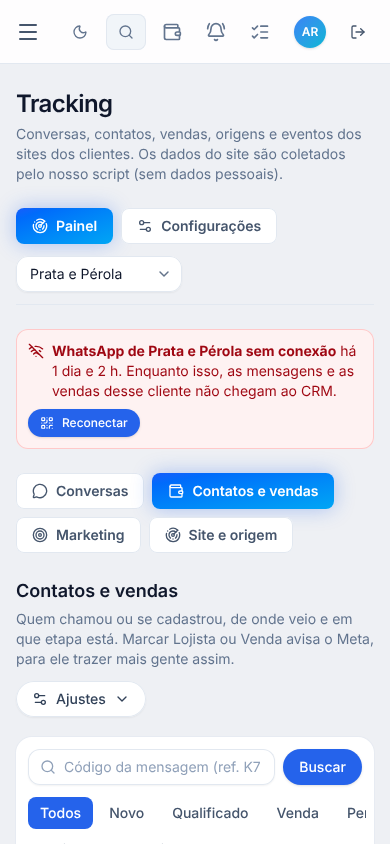
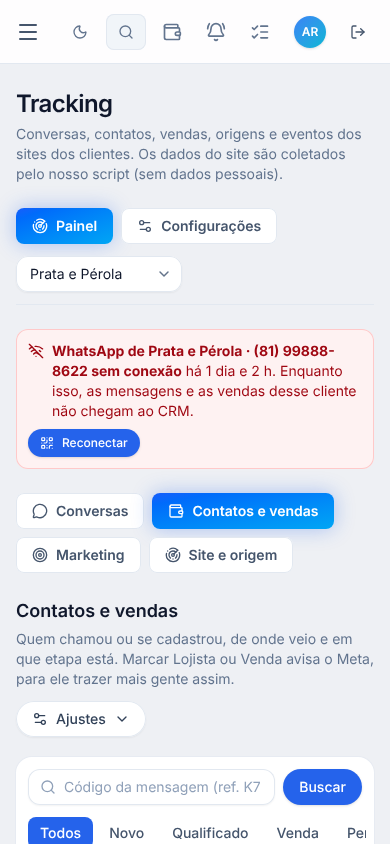
Tracking: vários números de WhatsApp por cliente (botão +, filtro Número nas conversas, aviso diz qual número caiu)
Claude-Session: https://claude.ai/code/session_01A5ivfSd6VbkwRJFYwrhVNk

Changed region(s): [[0.0308, 0.4005, 0.9538, 0.8626], [0.0615, 0.8934, 0.6769, 1.0], [0.7077, 0.8626, 0.9538, 1.0]]

diff --git a/apps/web/src/features/tracking/ClientesSiteWhatsApp.tsx b/apps/web/src/features/tracking/ClientesSiteWhatsApp.tsx
@@ -11,7 +11,7 @@ import { useAuth } from "@/features/auth/AuthProvider.tsx";
 import { can } from "@backstage/shared";
 import { errorMessage } from "@/lib/errors.ts";
 import { formatDataCurta } from "@/lib/format.ts";
-import { type Destination, type TrackingContainer, useExcludedWhatsAppContainers, useWaSemSiteContainer, type WhatsAppConnection } from "./api.ts";
+import { type Destination, type TrackingContainer, useExcludedWhatsAppContainers, useWaNovoNumeroContainer, useWaSemSiteContainer, type WhatsAppConnection } from "./api.ts";
 import { ExcluirWhatsApp } from "./ExcluirWhatsApp.tsx";
 import { usoRecente, waConnectionStatus } from "./logic.ts";
 import { WA_QR_LABEL, WaQrModal } from "./WaQrSection.tsx";
@@ -85,10 +85,11 @@ export function ClienteSiteWhatsApp({ clients, containers, connectionOf, destina
   renderDetail?: (clientId: string) => ReactNode;
 }) {
   const semSite = useWaSemSiteContainer();
+  const novoNumeroWa = useWaNovoNumeroContainer();
   const excluidos = new Set(useExcludedWhatsAppContainers(true).data ?? []);
   const podeGerenciar = can(useAuth().profile?.role, "tracking.manage");
   const queryClient = useQueryClient();
-  const [qrDe, setQrDe] = useState<{ clienteId: string; nome: string } | null>(null);
+  const [qrDe, setQrDe] = useState<{ conexaoId: string; nome: string } | null>(null);
   const [busy, setBusy] = useState<string | null>(null);
   const [erro, setErro] = useState<string | null>(null);
   const [busca, setBusca] = useState("");
@@ -108,7 +109,12 @@ export function ClienteSiteWhatsApp({ clients, containers, connectionOf, destina
       });
       return { container, connection: container ? connectionOf(container.id) : undefined };
     };
-    return { mine, sites: mine.filter((c) => c.kind !== "whatsapp" && !c.excluded_at), servidor: porModo(true), oficial: porModo(false) };
+    // 25/11/2026: um cliente pode ter vários números pelo servidor próprio (um recipiente técnico por número).
+    const servidores = mine
+      .map((c) => ({ container: c, connection: connectionOf(c.id) }))
+      .filter((x): x is { container: TrackingContainer; connection: WhatsAppConnection } => x.connection?.mode === "nao_oficial")
+      .sort((a, b) => a.container.created_at.localeCompare(b.container.created_at));
+    return { mine, sites: mine.filter((c) => c.kind !== "whatsapp" && !c.excluded_at), servidor: servidores[0] ?? porModo(true), servidores, oficial: porModo(false) };
   }
 
   /**
@@ -139,6 +145,18 @@ export function ClienteSiteWhatsApp({ clients, containers, connectionOf, destina
     } catch (e) { setErro(errorMessage(e)); } finally { setBusy(null); }
   }
 
+  /** 25/11/2026: outro número de WhatsApp do mesmo cliente: cria um recipiente técnico novo e abre o cadastro do número. */
+  async function novoNumero(clientId: string) {
+    setErro(null);
+    setBusy(clientId);
+    try {
+      const id = await novoNumeroWa.mutateAsync(clientId);
+      await queryClient.refetchQueries({ queryKey: ["tracking", "containers"] });
+      const c = (queryClient.getQueryData<TrackingContainer[]>(["tracking", "containers"]) ?? []).find((x) => x.id === id);
+      if (c) onWhatsApp(c);
+    } catch (e) { setErro(errorMessage(e)); } finally { setBusy(null); }
+  }
+
   /** Um pixel por cliente: o que estiver ligado em qualquer recipiente dele (site ou WhatsApp). */
   function pixelDe(clientId: string) {
     const mine = containers.filter((c) => c.client_id === clientId && !c.excluded_at);
@@ -166,7 +184,8 @@ export function ClienteSiteWhatsApp({ clients, containers, connectionOf, destina
   // Situação de cada cliente, calculada uma vez (a busca e os filtros usam isto).
   const linhas = useMemo(() => clients.map((cl) => {
     const dados = conexoesDe(cl.id);
-    return { cl, ...dados, est: estadoDe(dados.servidor.connection), estOficial: estadoDe(dados.oficial.connection), pxErro: pixelComErro(pixelDe(cl.id).destination) };
+    const pior = dados.servidores.find((x) => estadoDe(x.connection).estado !== "conectado") ?? dados.servidores[0];
+    return { cl, ...dados, est: estadoDe(pior?.connection ?? dados.servidor.connection), estOficial: estadoDe(dados.oficial.connection), pxErro: pixelComErro(pixelDe(cl.id).destination) };
     // eslint-disable-next-line react-hooks/exhaustive-deps
   }), [clients, containers, connectionOf]);
 
@@ -210,11 +229,8 @@ export function ClienteSiteWhatsApp({ clients, containers, connectionOf, destina
           <span>Cliente</span><span>Site</span><span className="@[64rem]:pl-4">WhatsApp (servidor próprio)</span><span className="@[64rem]:pl-4">API oficial</span><span className="@[64rem]:pl-4">Pixel do Meta</span>
         </div>
         <ul className="divide-y divide-slate-100">
-          {visiveis.map(({ cl, sites, servidor, oficial, est, estOficial }) => {
-            const cn = servidor.connection;
-            const uso = usoRecente(cn?.last_webhook_at ?? null, Date.now());
+          {visiveis.map(({ cl, sites, servidores, oficial, estOficial }) => {
             const usoOficial = usoRecente(oficial.connection?.last_webhook_at ?? null, Date.now());
-            const guardando = Boolean(cn && cn.mode === "nao_oficial" && cn.store_messages && cn.store_ack_at);
             const aberto = Boolean(renderDetail && sites.length > 0 && (abertos.has(cl.id) !== (filtradas.length === 1)));
             return (
               <li key={cl.id} className="grid gap-x-4 gap-y-3 px-3 py-3 sm:px-4 @[64rem]:grid-cols-[minmax(6rem,0.7fr)_minmax(6rem,0.7fr)_minmax(26rem,2.6fr)_minmax(8.5rem,0.7fr)_minmax(10rem,0.8fr)] @[64rem]:items-center @[64rem]:py-2.5" data-testid="cli-site-whatsapp-row">
@@ -245,29 +261,45 @@ export function ClienteSiteWhatsApp({ clients, containers, connectionOf, destina
                   <IconButton size="sm" label={`${sites.length ? "Adicionar outro site" : "Adicionar site"} de ${cl.name}`} icon={<Plus />} onClick={() => onAddSite(cl.id)} />
                 </div>
 
-                {/* WhatsApp do servidor próprio: situação + ações, numa linha */}
-                <div className="flex min-w-0 flex-wrap items-center gap-x-2 gap-y-2 @[64rem]:flex-nowrap @[64rem]:border-l @[64rem]:border-slate-100 @[64rem]:pl-4" data-testid="cli-whatsapp-coluna">
-                  <span className="w-20 shrink-0 text-[11px] font-semibold uppercase tracking-wide text-slate-400 @[64rem]:hidden">WhatsApp</span>
-                  {est.estado === "nenhum" ? <span className="whitespace-nowrap text-xs text-slate-400">Não ligado</span> : <Badge tone={est.tone} title={est.detalhe}><span className="whitespace-nowrap">{est.label}</span></Badge>}
-                  {cn?.display_phone && <span className="whitespace-nowrap text-xs tabular-nums text-slate-500">{formatTelefone(cn.display_phone)}</span>}
-                  {guardando && <span title="Guardando as conversas deste WhatsApp" className="text-slate-400"><MessageSquareText className="size-4" aria-label="Guardando as conversas" role="img" /></span>}
-                  {guardando && cn?.ai_suggest && <span title="IA sugerindo vendas" className="text-brand-600"><Sparkles className="size-4" aria-label="IA sugerindo vendas" role="img" /></span>}
-                  {uso.level === "atencao" && <Badge tone="warning" data-testid="wa-sem-uso">Sem uso desde {formatDataCurta(cn!.last_webhook_at!)}</Badge>}
-                  <span className="flex items-center gap-1" data-testid="wa-detalhe-servidor">
-                    {cn?.mode === "nao_oficial" && podeGerenciar && (
-                      <Button className="px-3 py-1 text-xs" variant={est.estado === "conectado" ? "secondary" : "primary"} onClick={() => setQrDe({ clienteId: cl.id, nome: cl.name })} aria-label={`Conectar o WhatsApp de ${cl.name}`}>
-                        <QrCode className="size-3.5" aria-hidden /> {est.estado === "conectado" ? "Reconectar" : "Conectar"}
-                      </Button>
-                    )}
-                    {cn ? (
-                      <IconButton size="sm" label={`Configurar WhatsApp de ${cl.name}`} icon={<Settings2 />} onClick={() => void ligarWhatsApp(cl.id, "servidor")} />
-                    ) : (
+                {/* WhatsApp do servidor próprio: um número por linha; o "+" adiciona outro número do mesmo cliente */}
+                <div className="flex min-w-0 flex-col gap-2 @[64rem]:border-l @[64rem]:border-slate-100 @[64rem]:pl-4" data-testid="cli-whatsapp-coluna">
+                  {servidores.length === 0 && (
+                    <div className="flex min-w-0 flex-wrap items-center gap-x-2 gap-y-2">
+                      <span className="w-20 shrink-0 text-[11px] font-semibold uppercase tracking-wide text-slate-400 @[64rem]:hidden">WhatsApp</span>
+                      <span className="whitespace-nowrap text-xs text-slate-400">Não ligado</span>
                       <Button variant="ghost" className="px-3 py-1 text-xs font-semibold text-brand-700 hover:bg-brand-50" loading={busy === cl.id} onClick={() => void ligarWhatsApp(cl.id, "servidor")} aria-label={`Ligar WhatsApp de ${cl.name}`}>Ligar</Button>
-                    )}
-                    {cn?.mode === "nao_oficial" && podeGerenciar && (
-                      <ExcluirWhatsApp connectionId={cn.id} instanceName={cn.instance_name} clientName={cl.name} onMessage={(m) => setAvisos((a) => ({ ...a, [cl.id]: m }))} />
-                    )}
-                  </span>
+                    </div>
+                  )}
+                  {servidores.map(({ container: ct, connection: cn }, i) => {
+                    const e = estadoDe(cn);
+                    const uso = usoRecente(cn.last_webhook_at ?? null, Date.now());
+                    const guardando = Boolean(cn.store_messages && cn.store_ack_at);
+                    const de = i === 0 ? cl.name : `${cl.name} ${formatTelefone(cn.display_phone) || `(número ${i + 1})`}`;
+                    return (
+                      <div key={cn.id} className="flex min-w-0 flex-wrap items-center gap-x-2 gap-y-2 @[64rem]:flex-nowrap" data-testid="cli-whatsapp-numero">
+                        <span className="w-20 shrink-0 text-[11px] font-semibold uppercase tracking-wide text-slate-400 @[64rem]:hidden">{i === 0 ? "WhatsApp" : ""}</span>
+                        <Badge tone={e.tone} title={e.detalhe}><span className="whitespace-nowrap">{e.label}</span></Badge>
+                        {cn.display_phone && <span className="whitespace-nowrap text-xs tabular-nums text-slate-500">{formatTelefone(cn.display_phone)}</span>}
+                        {guardando && <span title="Guardando as conversas deste WhatsApp" className="text-slate-400"><MessageSquareText className="size-4" aria-label="Guardando as conversas" role="img" /></span>}
+                        {guardando && cn.ai_suggest && <span title="IA sugerindo vendas" className="text-brand-600"><Sparkles className="size-4" aria-label="IA sugerindo vendas" role="img" /></span>}
+                        {uso.level === "atencao" && <Badge tone="warning" data-testid="wa-sem-uso">Sem uso desde {formatDataCurta(cn.last_webhook_at!)}</Badge>}
+                        <span className="flex items-center gap-1" data-testid="wa-detalhe-servidor">
+                          {podeGerenciar && (
+                            <Button className="px-3 py-1 text-xs" variant={e.estado === "conectado" ? "secondary" : "primary"} onClick={() => setQrDe({ conexaoId: cn.id, nome: cl.name })} aria-label={`Conectar o WhatsApp de ${de}`}>
+                              <QrCode className="size-3.5" aria-hidden /> {e.estado === "conectado" ? "Reconectar" : "Conectar"}
+                            </Button>
+                          )}
+                          <IconButton size="sm" label={`Configurar WhatsApp de ${de}`} icon={<Settings2 />} onClick={() => onWhatsApp(ct)} />
+                          {podeGerenciar && (
+                            <ExcluirWhatsApp connectionId={cn.id} instanceName={cn.instance_name} clientName={de} onMessage={(m) => setAvisos((a) => ({ ...a, [cl.id]: m }))} />
+                          )}
+                          {podeGerenciar && i === servidores.length - 1 && (
+                            <IconButton size="sm" label={`Adicionar outro número de WhatsApp de ${cl.name}`} icon={<Plus />} onClick={() => void novoNumero(cl.id)} data-testid="wa-novo-numero" />
+                          )}
+                        </span>
+                      </div>
+                    );
+                  })}
                 </div>
 
                 {/* API oficial */}
@@ -325,7 +357,7 @@ export function ClienteSiteWhatsApp({ clients, containers, connectionOf, destina
       )}
 
       {qrDe && (() => {
-        const conn = conexoesDe(qrDe.clienteId).servidor.connection;
+        const conn = containers.map((c) => connectionOf(c.id)).find((w) => w?.id === qrDe.conexaoId);
         return conn ? <WaQrModal clientName={qrDe.nome} connection={conn} onClose={() => setQrDe(null)} /> : null;
       })()}
     </Card>

diff --git a/apps/web/src/features/tracking/ConversationsPage.tsx b/apps/web/src/features/tracking/ConversationsPage.tsx
@@ -16,6 +16,7 @@ import {
   useWaConversationDelete,
   type ConversationRange,
   useWaConversations,
+  useWaPeopleConnections,
   useWaMarkSale,
   useWaMessages,
   useWaPersonSales,
@@ -24,6 +25,8 @@ import {
   type WaConversation,
 } from "./conversationsApi.ts";
 import { LimparDadosDoClienteCard } from "./WhatsAppServerModal.tsx";
+import { useTrackingContainers, useWhatsAppConnections } from "./api.ts";
+import { formatTelefone } from "./ClientesSiteWhatsApp.tsx";
 import { ChatSkeleton, ListSkeleton } from "@/components/ui/skeleton.tsx";
 import { findTargetConversation, targetFromParams } from "./conversationTarget.ts";
 import { confirmar } from "@/lib/confirmStore.ts";
@@ -246,7 +249,17 @@ export function ConversationsPanel({ clientId }: { clientId: string }) {
   const [dayTo, setDayTo] = useState("");
   const range = useMemo(() => conversationRange(preset, dayFrom, dayTo, new Date()), [preset, dayFrom, dayTo]);
   const list = useWaConversations(id, search, range);
-  const people = (list.data?.pages ?? []).flat().filter((p) => (!range.from || p.last_at >= range.from) && (!range.to || p.last_at <= range.to));
+  // 25/11/2026: cliente com mais de um número: filtro "Número" e o número em cada conversa
+  const containersQ = useTrackingContainers();
+  const conexoesQ = useWhatsAppConnections(true);
+  const meusRecipientes = new Set((containersQ.data ?? []).filter((c) => c.client_id === id).map((c) => c.id));
+  const numeros = (conexoesQ.data ?? []).filter((w) => meusRecipientes.has(w.container_id));
+  const variosNumeros = numeros.length > 1;
+  const pessoaNumero = useWaPeopleConnections(variosNumeros ? id : undefined);
+  const [numero, setNumero] = useState<string>("");
+  const numeroDe = (personId: number) => { const cid = pessoaNumero.data?.get(personId); const w = numeros.find((x) => x.id === cid); return w ? formatTelefone(w.display_phone) || w.verified_name || "outro número" : null; };
+  const people = (list.data?.pages ?? []).flat().filter((p) => (!range.from || p.last_at >= range.from) && (!range.to || p.last_at <= range.to)
+    && (!variosNumeros || !numero || pessoaNumero.data?.get(p.person_id) === numero));
   const current = people.find((p) => p.person_id === selected) ?? null;
   useEffect(() => {
     if (!alvo || alvoFeito || list.isPending) return;
@@ -288,6 +301,15 @@ export function ConversationsPanel({ clientId }: { clientId: string }) {
             <Search className="pointer-events-none absolute left-3 top-2.5 size-4 text-slate-400" aria-hidden />
             <Input aria-label="Buscar por nome ou telefone" placeholder="Buscar por nome ou telefone" className="pl-9" value={search} onChange={(e) => setSearch(e.target.value)} />
           </div>
+          {variosNumeros && (
+            <label className="flex items-center gap-2 text-xs text-slate-600" data-testid="wa-conversations-numero">
+              <span className="shrink-0 font-medium">Número:</span>
+              <select className="w-full rounded-md border border-slate-300 bg-white px-2 py-1 text-sm" aria-label="Número do WhatsApp" value={numero} onChange={(e) => setNumero(e.target.value)}>
+                <option value="">Todos os números ({numeros.length})</option>
+                {numeros.map((w) => <option key={w.id} value={w.id}>{formatTelefone(w.display_phone) || w.verified_name || "Número sem cadastro"}</option>)}
+              </select>
+            </label>
+          )}
           <div className="space-y-2" data-testid="wa-conversations-period">
             <label className="flex items-center gap-2 text-xs text-slate-600">
               <span className="shrink-0 font-medium">Período:</span>
@@ -323,6 +345,7 @@ export function ConversationsPanel({ clientId }: { clientId: string }) {
                       <span className="block max-w-full truncate text-xs text-slate-600">{p.last_direction === "enviada" ? "Você: " : ""}{p.last_preview}</span>
                       <span className="flex flex-wrap gap-1">
                         <Badge tone={p.from_ad ? "success" : "neutral"}>{p.from_ad ? "Anúncio" : p.origin === "site" ? "Site" : "Sem origem identificada"}</Badge>
+                        {variosNumeros && numeroDe(p.person_id) && <Badge data-testid="wa-conversation-numero">{numeroDe(p.person_id)}</Badge>}
                         {p.suggestion_id && <Badge tone="warning">IA sugere venda</Badge>}
                         {(p.contact_sales ?? 0) > 0 && <Badge tone="success">Venda marcada</Badge>}
                       </span>

diff --git a/apps/web/src/demo/mockBackend.js b/apps/web/src/demo/mockBackend.js
@@ -1967,6 +1967,19 @@ export function createMockBackend(db, { role = "admin", password = null, userId 
       db.rpcCalls.push({ fn: url.includes("restore") ? "tracking_container_restore" : "tracking_container_exclude", id: k.id });
       return res(200, null);
     }
+    // 25/11/2026: mais um número de WhatsApp para o mesmo cliente (mesma regra do banco)
+    if (url.includes("/rest/v1/rpc/wa_novo_numero_container")) {
+      const p = parse();
+      if (!["admin", "gestor"].includes(role)) return res(403, { code: "42501", message: "Só administrador e gestor ligam o WhatsApp de um cliente." });
+      const tecnicos = db.trackingContainers.filter((t) => t.client_id === p.p_client && t.kind === "whatsapp");
+      const livre = tecnicos.find((t) => !db.whatsappConnections.some((w) => w.container_id === t.id));
+      if (livre) return res(200, livre.id);
+      if (tecnicos.length >= 10) return res(400, { code: "22023", message: "Limite de 10 números de WhatsApp por cliente." });
+      const k = { id: crypto.randomUUID(), client_id: p.p_client, name: `WhatsApp (número ${tecnicos.length + 1})`, public_key: "bf_" + "0".repeat(24), allowed_domains: [], status: "ativo",
+        test_mode: false, consent_mode: "nao_exigir", retention_days: 180, created_at: new Date().toISOString(), rules_version: null, kind: "whatsapp" };
+      db.trackingContainers.push(k);
+      return res(200, k.id);
+    }
     if (url.includes("/rest/v1/rpc/wa_sem_site_container")) {
       const p = parse();
       if (!["admin", "gestor"].includes(role)) return res(403, { code: "42501", message: "Só administrador e gestor ligam o WhatsApp de um cliente." });
@@ -2077,6 +2090,12 @@ export function createMockBackend(db, { role = "admin", password = null, userId 
         if (w) out.push({ contact_id: k.id, person_id: w.id, push_name: w.push_name });
       }
       return res(200, out);
+    }
+    // 25/11/2026: de qual número é cada pessoa (filtro "Número" nas Conversas)
+    if (url.includes("/rest/v1/rpc/wa_people_connections")) {
+      const p = parse();
+      if (!canManageClient(p.p_client)) return res(200, []);
+      return res(200, db.waPeople.filter((x) => x.client_id === p.p_client && x.connection_id).map((x) => ({ person_id: x.id, connection_id: x.connection_id })));
     }
     if (url.includes("/rest/v1/rpc/wa_conversations_list")) {
       const p = parse();

diff --git a/apps/web/src/features/tracking/WaQuedaAlerta.tsx b/apps/web/src/features/tracking/WaQuedaAlerta.tsx
@@ -5,6 +5,7 @@ import { Button } from "@/components/ui/button.tsx";
 import { useAuth } from "@/features/auth/AuthProvider.tsx";
 import { useActiveClients } from "@/features/clients/api.ts";
 import { useTrackingContainers, useWhatsAppConnections } from "./api.ts";
+import { formatTelefone } from "./ClientesSiteWhatsApp.tsx";
 import { WaQrModal } from "./WaQrSection.tsx";
 
 const FORA = new Set(["desconectado", "aguardando_leitura", "erro"]);
@@ -49,13 +50,13 @@ export function WaQuedaAlerta({ clientId }: { clientId: string | null }) {
           <p className="flex min-w-0 items-start gap-2 text-sm text-red-800">
             <WifiOff className="mt-0.5 size-4 shrink-0" aria-hidden />
             <span>
-              <strong>WhatsApp de {nomeDe.get(cliente)} sem conexão</strong>
+              <strong>WhatsApp de {nomeDe.get(cliente)}{w.display_phone ? ` · ${formatTelefone(w.display_phone)}` : ""} sem conexão</strong>
               {tempoFora(w.health_since) ? ` ${tempoFora(w.health_since)}` : ""}. Enquanto isso, as mensagens e as vendas desse cliente não chegam ao CRM.
               {!podeReconectar && " Peça a um administrador ou gestor para reconectar."}
             </span>
           </p>
           {podeReconectar && (
-            <Button className="px-3 py-1.5 text-xs" onClick={() => setQr(w.id)} aria-label={`Reconectar o WhatsApp de ${nomeDe.get(cliente)}`}>
+            <Button className="px-3 py-1.5 text-xs" onClick={() => setQr(w.id)} aria-label={`Reconectar o WhatsApp de ${nomeDe.get(cliente)}${w.display_phone ? ` ${formatTelefone(w.display_phone)}` : ""}`}>
               <QrCode className="size-3.5" aria-hidden /> Reconectar
             </Button>
           )}

diff --git a/apps/web/src/features/tracking/conversationsApi.ts b/apps/web/src/features/tracking/conversationsApi.ts
@@ -43,6 +43,19 @@ const ruleError = (error: { code?: string; message: string }, fallback: string) 
 /** Período do filtro: "de" e "até" em ISO (já com início e fim do dia). Vazio = sem limite. */
 export interface ConversationRange { from: string | null; to: string | null }
 
+/** 25/11/2026: de qual número do cliente é cada pessoa (person_id → connection_id). Sem permissão: vazio. */
+export function useWaPeopleConnections(clientId: string | undefined) {
+  return useQuery({
+    queryKey: [...KEY, "people-connections", clientId],
+    enabled: Boolean(clientId),
+    queryFn: async () => {
+      const { data, error } = await supabase.rpc("wa_people_connections", { p_client: clientId! });
+      if (error) return new Map<number, string>();
+      return new Map(((data ?? []) as { person_id: number; connection_id: string }[]).map((r) => [r.person_id, r.connection_id]));
+    },
+  });
+}
+
 export function useWaConversations(clientId: string | undefined, search: string, range: ConversationRange = { from: null, to: null }) {
   return useInfiniteQuery({
     queryKey: [...KEY, "list", clientId, search, range.from, range.to],

diff --git a/apps/web/src/features/tracking/api.ts b/apps/web/src/features/tracking/api.ts
@@ -91,6 +91,19 @@ export function useWaSemSiteContainer() {
   });
 }
 
+/** 25/11/2026: mais um número de WhatsApp para o mesmo cliente (um recipiente técnico novo por número). */
+export function useWaNovoNumeroContainer() {
+  const queryClient = useQueryClient();
+  return useMutation({
+    mutationFn: async (clientId: string) => {
+      const { data, error } = await supabase.rpc("wa_novo_numero_container", { p_client: clientId });
+      if (error) throw new FriendlyError(readableDbError(error, "Não conseguimos preparar o novo número deste cliente."));
+      return data as string;
+    },
+    onSuccess: () => queryClient.invalidateQueries({ queryKey: KEY }),
+  });
+}
+
 export function useTrackingOverview(from: string, to: string, enabled: boolean) {
   return useQuery({
     queryKey: [...KEY, "overview", from.slice(0, 13), to.slice(0, 13)],

diff --git a/docs/etapa-34-tracking/T5.40-VARIOS-NUMEROS-DE-WHATSAPP.md b/docs/etapa-34-tracking/T5.40-VARIOS-NUMEROS-DE-WHATSAPP.md
@@ -1,0 +1,29 @@
+# T5.40 — Vários números de WhatsApp no mesmo cliente (25/11/2026, pedido do Ander)
+
+## O que mudou
+- **Tracking → Configurações → Site e/ou WhatsApp:** cada número do cliente aparece numa linha própria dentro da coluna "WhatsApp (servidor próprio)", com a sua situação, Conectar/Reconectar (QR Code), configurar e excluir. No fim, um **"+"** adiciona outro número (abre o cadastro: digita o número e lê o QR Code).
+- **Conversas:** com mais de um número, aparece o filtro **"Número"** (Todos os números / cada número) e cada conversa mostra de qual número ela é.
+- **Faixa de WhatsApp caído** e **aviso do sino**: dizem qual número caiu (no sino, "final 8622").
+- O filtro "Precisam de atenção" da lista de clientes considera o pior número do cliente.
+
+## Como funciona por dentro
+- Cada número continua com a sua instância própria no servidor de WhatsApp (bf-...) e as pessoas das conversas já eram guardadas por número; nada disso mudou.
+- O que faltava era o "lugar" do 2º número: cada conexão fica presa a um recipiente técnico. Agora o "+" cria mais um recipiente técnico (tipo `whatsapp`) para o cliente.
+- Limite: 10 números por cliente. Um recipiente criado e não usado é reaproveitado no próximo "+".
+- Pixel do Meta continua **um por cliente** (vale para todos os números e sites).
+- "Limpar dados das conversas" continua valendo para o cliente inteiro (todos os números).
+
+## Banco
+Migration `20261125120000_wa_varios_numeros_por_cliente.sql` (aplicada). **Sem tabela nova.**
+- `wa_novo_numero_container(p_client)` → `private..._impl` (security definer): só administrador e gestor com acesso ao cliente; registra em `audit_logs` (`tracking.whatsapp_novo_numero`).
+- `wa_people_connections(p_client)` → `private..._impl`: de qual número é cada pessoa (só ids), com a mesma regra de leitura das conversas (admin, gestor, Account Manager).
+- `wa_client_health_apply_impl`: o título do aviso ganha o final do número.
+- Conferido por consulta: quem não está logado não executa nenhuma delas.
+
+## Testes
+- `e2e/tracking-unificado.mjs` ganhou o bloco "vários números" (dois números na linha, "+" único no fim, "+" cria o lugar do 3º número, filtro por número nas conversas).
+- Também passaram: wa-servidor, ux-clientes-whatsapp, conversas-whatsapp, tracking-painel, wa-qr-ficha, excluir-site, sugestao-abrir-conversa, tracking, contacts, vendas-sugeridas, design, responsive; unitários 208 + 297.
+- **Não testado:** conectar um 2º número real por QR Code no servidor de verdade.
+
+![Vários números](imagens/tracking-varios-numeros.png)
+![Conversas por número](imagens/tracking-conversas-por-numero.png)
